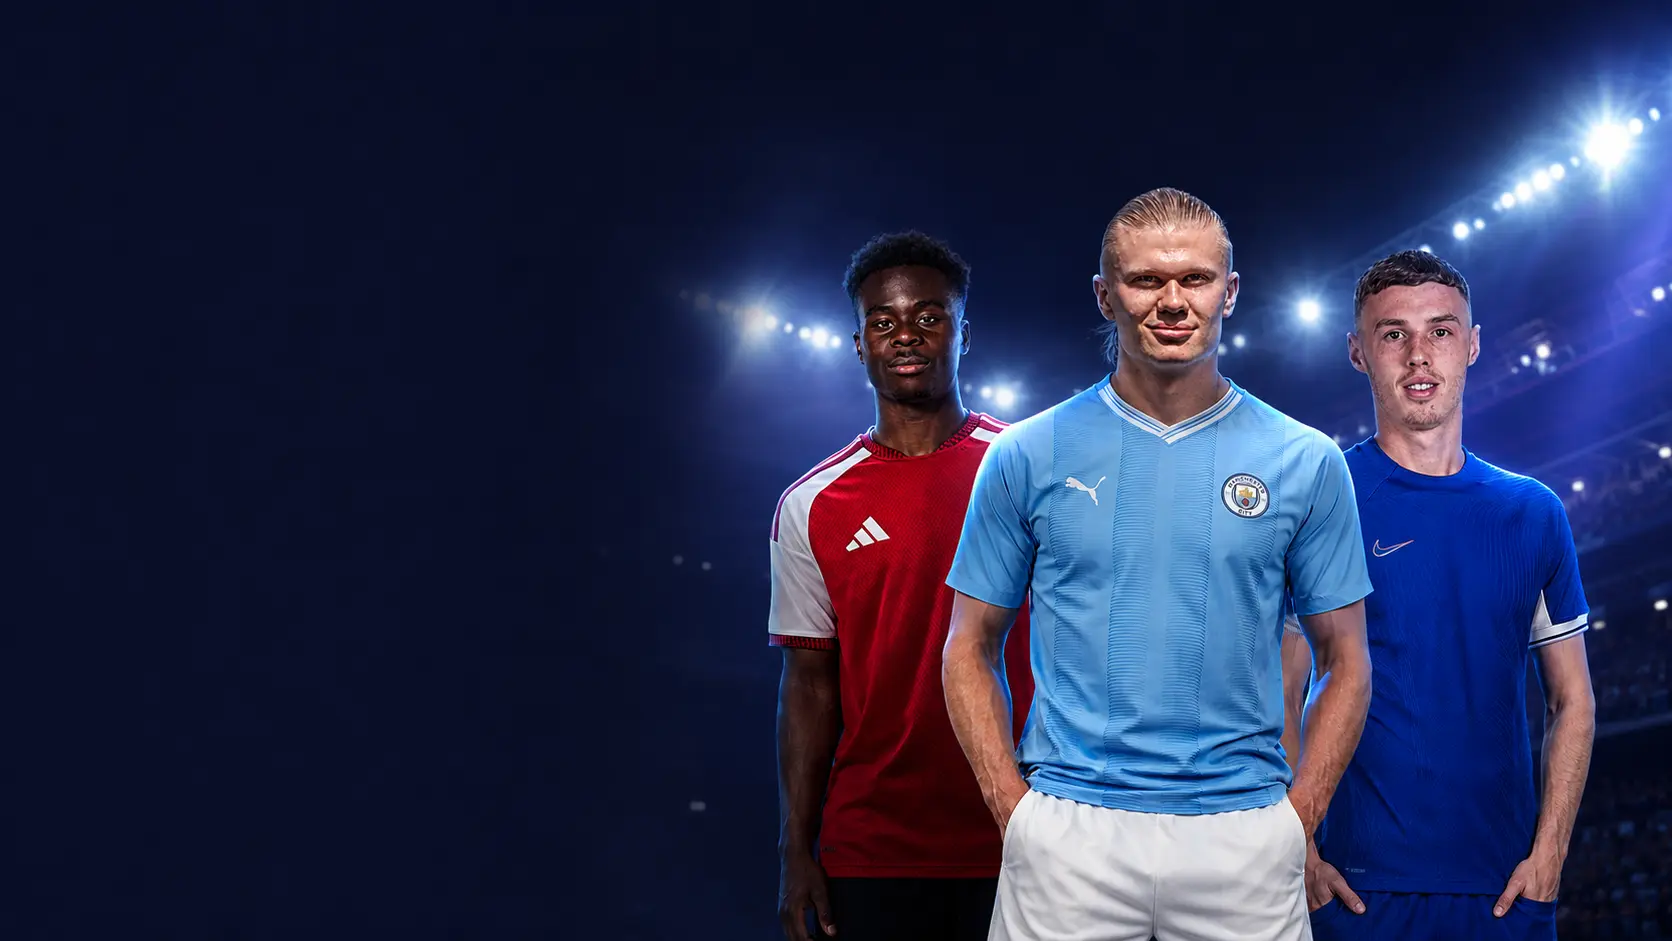
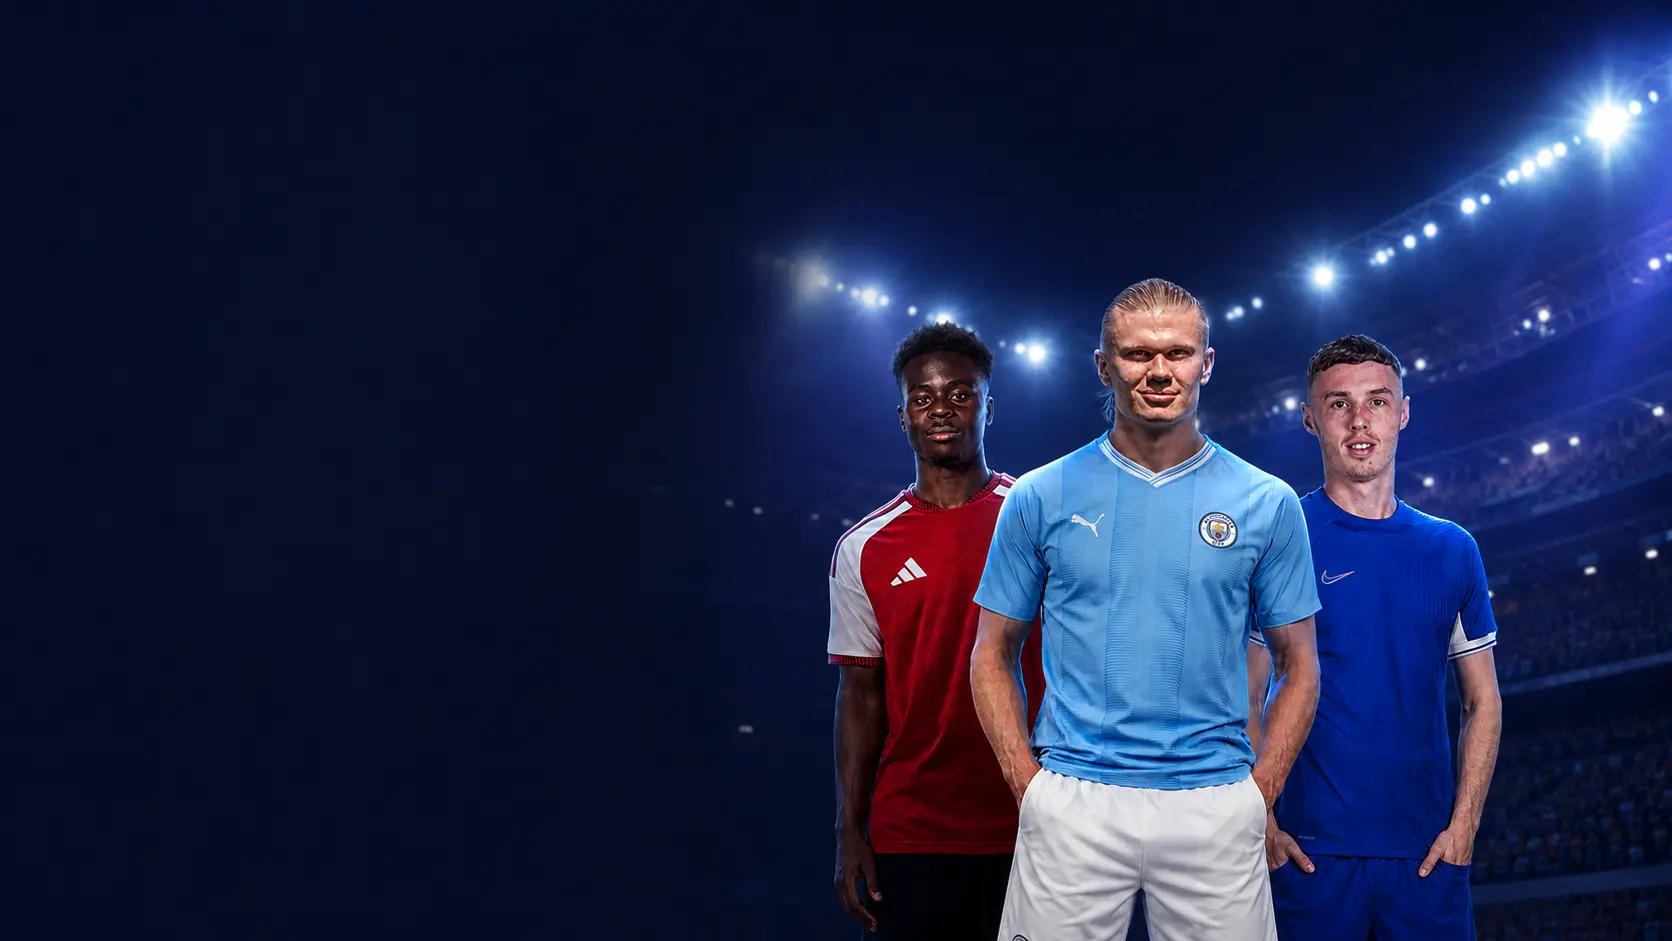
Balance the real-player hero layout

diff --git a/app/page.tsx b/app/page.tsx
@@ -119,7 +119,7 @@ export default async function Home() {
             <p className="mt-9 text-sm font-black uppercase tracking-[0.22em] text-[var(--accent)]">
               Your fantasy. Your strategy. Your glory.
             </p>
-            <h1 className="mt-5 max-w-3xl text-5xl font-black leading-[0.96] tracking-[-0.06em] sm:text-7xl xl:text-[5.7rem]">
+            <h1 className="mt-5 max-w-3xl text-5xl font-black leading-[0.96] tracking-[-0.06em] sm:text-7xl xl:text-[5.1rem]">
               Build your team. Make your moves. <span className="text-[var(--accent)]">Win the season.</span>
             </h1>
             <p className="mt-7 max-w-2xl text-base leading-8 text-blue-100 sm:text-lg">
